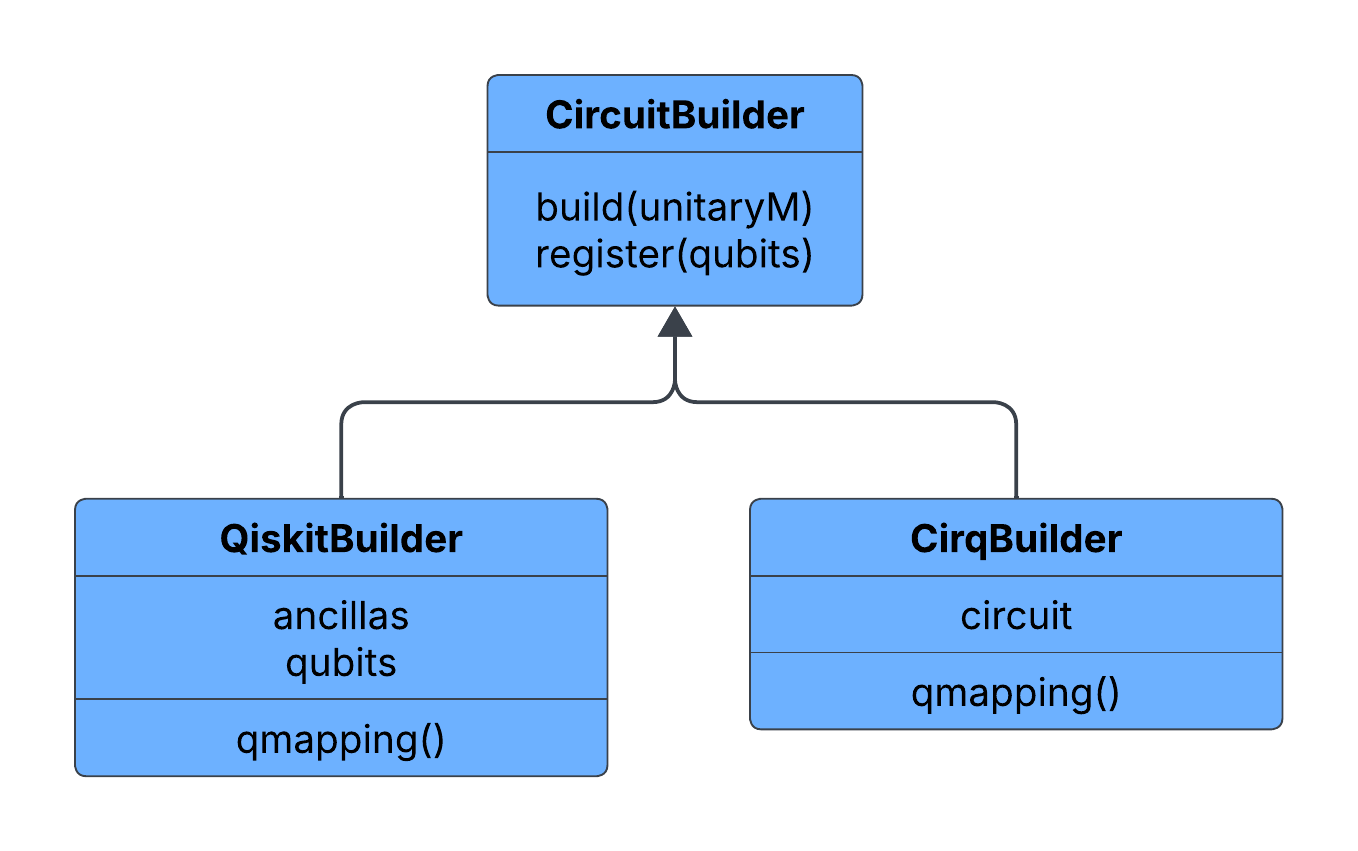
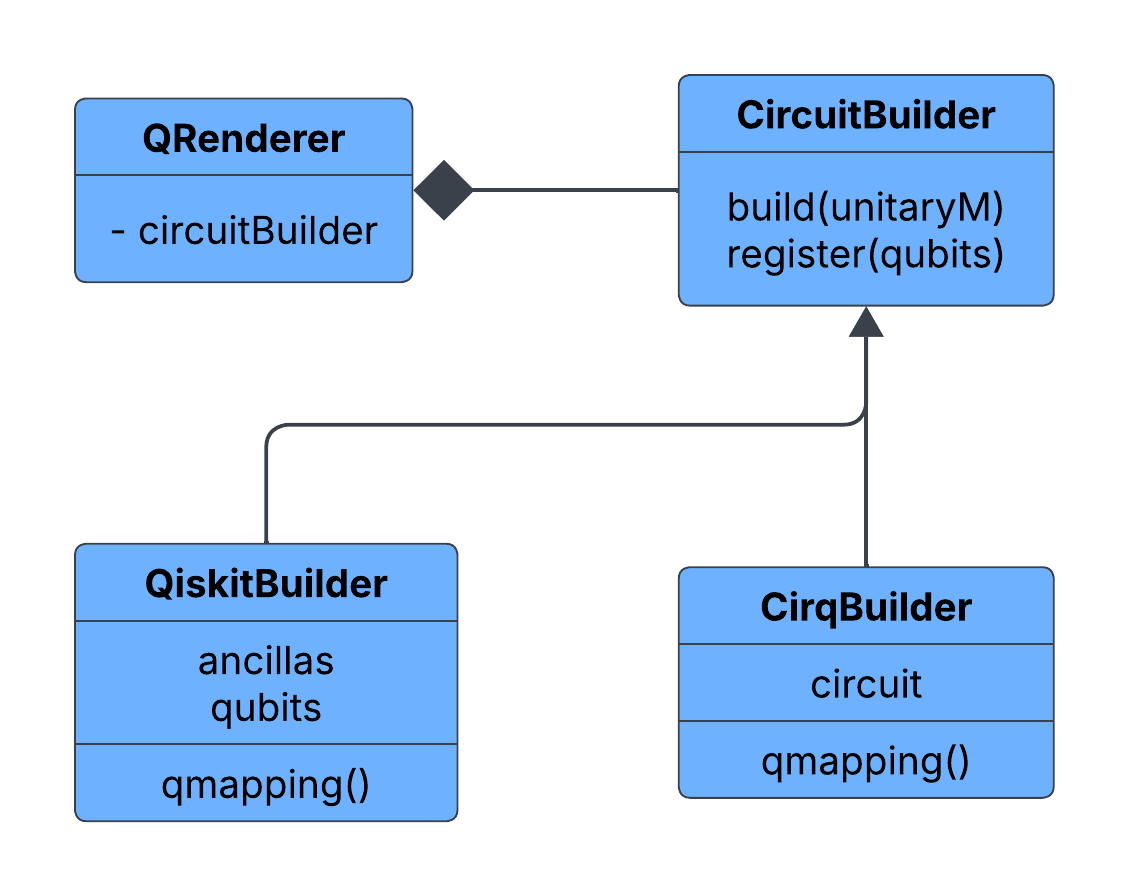
Finish writing sections Method and high-level design.

diff --git a/quantum-compiler/article/qompiler.tex b/quantum-compiler/article/qompiler.tex
@@ -56,15 +56,17 @@ T\kern-.1667em\lower.7ex\hbox{E}\kern-.125emX}}
 
     \section{Introduction}\label{sec:introduction}
 
-    Quantum simulation offers significant advantages for applications in chemistry, pharmaceuticals, and biological processes.
+    Quantum simulation offer significant advantages for applications in chemistry, pharmaceuticals, and biological processes.
     Despite this potential, developing quantum software remains highly challenging, requiring expertise in physics, mathematics, and software engineering.
     This steep learning curve limits access for many users and professionals who could benefit from quantum computing.
     Furthermore, existing quantum transpilers are often platform-specific, implemented in an ad hoc manner, and provide limited control over compilation granularity.
+
 
     To address these challenges, we developed \texttt{qompiler}, a cross-platform quantum circuit synthesizer designed for traceability, verifiability, and configurable gate control.
     It decomposes Hamiltonians into circuits using a multi-stage framework, including two-level, swap, control, Euler angle decompositions, and Solovay-Kitaev approximations.
     The intermediate representation (IL) is structured as a B-Tree, enabling gate-level lineage and platform independence, and it supports major frameworks such as Qiskit, Cirq, and OpenQASM~\cite{cirq2024,qiskit2023,openqasm2,openqasm3}.
     Notably, the compiler allows fine-grained gate selection to match native hardware capabilities—for example, using Pauli gates on superconducting hardware or rotation gates on trapped-ion devices—facilitating hardware-aware optimization and broad applicability.
+
 
     Table~\ref{tab:feature-comparison} compares \texttt{qompiler} with existing quantum compilers, transpilers, and synthesizers according to the following criteria:
     \begin{itemize}
@@ -95,6 +97,7 @@ T\kern-.1667em\lower.7ex\hbox{E}\kern-.125emX}}
 
 
     \section{Method}\label{sec:method}
+
     The proposed compiler, \texttt{qompiler}, decomposes user-defined Hamiltonians into executable quantum circuits through a multi-stage decomposition framework.
     As a recap, given an input Hamiltonian $\hat{H}$, the quantum dynamics are fully prescribed by the time-dependent evolution operator
     \begin{equation}
@@ -115,28 +118,31 @@ T\kern-.1667em\lower.7ex\hbox{E}\kern-.125emX}}
     \end{equation}
     where $\hat{A}_{0}$ is the initial operator for an arbitrary observable.
     Whereas, the state kets remain constants.
-
     For computational purposes, we express the evolution operator as a unitary matrix \( U \) on a suitably chosen basis,
     which serves as the starting point for this paper.
-    We divide the overall workflow into two stages: compilation and interpretation.
-    During compilation, \texttt{Qompiler} takes \( U \) as input and decomposes it into gate-level circuits expressed
-    using an intermediate language (IL) designed by us.
 
-    The compilation process comprises several key steps, including two-level decomposition (2L), swap gate decomposition (CX),
-    control gate decomposition (CTRL), Euler rotation decomposition (EA), and the Solovay-Kitaev approximation (SK)~\cite{nielsen2010q,dawson2005sk}.
-    All decomposition processes are configurable, offering control over compilation granularity.
+    \subsection{High-Level Design}\label{subsec:design}
 
-    Next are the optimization passes.
-    These built-in processes reduce and consolidate redundant gates, overly fragmented circuits,
-    and other non-optimal components of the code.
-    Think of the decomposition processes as `push`, whereas these processes act as `pull`.
-    Through the optimization processes, we `pull back` some of the decomposition actions.
-    By combining the actions in both the `push` and `pull` processes, we aim to find an optimal compilation result
-    that respects the native constraints of the targeted quantum hardware.
+    \begin{figure}[tbhp]
+        \centering
+        \includegraphics[width=.8\linewidth]{architecture}
+        \caption{The high-level design of the `\texttt{Qompiler}' system.
+        Rectangles (blue) represent major class constructs.
+        Rectangles with a jagged bottom (purple) represent file input/output (file I/O).
+        Parallelograms (pink) represent in-memory data structure.
+        The computer icon represents user input.
+        }
+        \label{fig:impl}
+    \end{figure}
 
-    The final compiled code (quantum circuit) is represented in a B-Tree data structure,
-    which encodes gate-level lineage via parent-child relationships among tree nodes, thereby providing robust traceability
-    and verifiability, which will be discussed in Section~\ref{sec:traceability-and-verifiability}.
+
+    Here we provide an overview of the high-level design.
+    The system is organized into the following functional parts:
+    ``Compiler configuration'', ``Matrix decomposition'', ``Optimization'', ``Circuit rendering''.
+    This is illustrated in Figure~\ref{fig:impl}.
+    We will briefly describe each of these steps here, while more detailed discussions of selected components
+    are presented in subsequent sections.
+
 
     A key feature of \texttt{qompiler} is its configurable compilation granularity,
     allowing users to tailor the resulting circuit to the gate sets best suited for the target hardware.
@@ -148,33 +154,92 @@ T\kern-.1667em\lower.7ex\hbox{E}\kern-.125emX}}
     This hardware-aware configurability enables efficient, optimized circuit generation across diverse quantum backends
     while maintaining traceability and cross-platform compatibility.
 
+
+    The compiler configuration is the sole responsibility of \texttt{ConfigManager}.
+    \texttt{ConfigManager} can read configuration inputs from several sources:
+    \begin{itemize}
+        \item Default settings JSON file,
+        \item Custom overrides JSON file,
+        \item Command line settings.
+    \end{itemize}
+    Rich controls of the compilation processes are made possible through the sophisticated configuration system,
+    offering control over almost all aspects of the compilation process,
+    including but not limited to the granularity control, target platform, error tolerances,
+    quantum device space allocation, optimization level, etc.
+
+    Once all configuration sources are loaded and combined,
+    the final settings are used to create a singleton instance of \texttt{QFactory},
+    which is a creational design pattern, the factory pattern ~\cite{Gamma1994DesignPattern}.
+    From the \texttt{QFactory}, other compilation constructs are created as
+    needed---\texttt{Qompiler}, \texttt{QRenderer}, \texttt{QDevice}, \texttt{QConfig}, \texttt{Optimizers}, etc.
+
+
+    Now that all the needed constructs are in place, \texttt{Qompiler} can start to take orders---\( U\left(t\right) \) as input and
+    compile it into gate-level quantum code.
+    The compilation process comprises several key steps, including two-level decomposition (2L), swap gate decomposition (CX),
+    control gate decomposition (CTRL), Euler rotation decomposition (EA),
+    and the Solovay-Kitaev approximation (SK)~\cite{nielsen2010q,dawson2005sk}.
+    This is done recursively by the \texttt{Qompiler} class.
+    We will spend the entire Section~\ref{sec:decomp} to discuss this as well as future development.
+
+
+    The final compiled code (quantum circuit) is represented in a B-Tree data structure,
+    an intermediate language (IL) designed specifically for the task.
+    IL encodes gate-level lineage via parent-child relationships among tree nodes, thereby providing robust traceability
+    and verifiability, which will be discussed in Section~\ref{sec:traceability-and-verifiability}.
+
+
+    Nearing the end of the compilation process are the optimization passes
+    where multiple passes may be taken to simplify the circuit output,
+    including gate annihilation, reduction, and consolidation.
+    Think of the decomposition processes as `push`, whereas the optimization processes as `pull`.
+    Through the optimization processes, we `pull back` some of the decomposition actions.
+    By combining the actions in both the `push` and `pull` processes, we aim to find an optimal compilation result
+    that respects the native constraints of the targeted quantum hardware.
+    This will be the topic for Section~\ref{sec:optimization}.
+
+
+    Once the compilation process is finished, the end result is binary code written to disk as `.qco' files.
     Finally, the interpretation stage.
+    The circuit interpretation and rendering part is in the curation of \texttt{QRenderer} and \texttt{CircuitBuilder}.
     The compiler’s intermediate language (IL) is platform-independent and can be interpreted and rendered
     into executable circuits for specific quantum platforms.
     The IL can also be translated into other quantum software standards, such as OpenQASM, for broader compatibility~\cite{openqasm2,openqasm3}.
+    Note that the compilation is done once, but the circuit interpreting and rendering may be done any number of times,
+    for any supported platforms.
     This stage is designed to be highly adaptable and open to new platforms.
-    We have demonstrated interpretation with quantum computing platforms such as Qiskit and Cirq.
-    Support for other platforms can be added easily with minimal programming effort.
+    Currently supported quantum computing platforms include Qiskit and Cirq.
+    Support for other platforms can be added easily by writing a circuit builder extending the base class \texttt{CircuitBuilder}.
+    We will visit this in Section~\ref{sec:rendering}.
 
 
-    \section{High-Level Design}\label{sec:design}
-    In Figure~\ref{fig:impl}, we present the design of the compilation framework of \texttt{Qompiler}.
-    The main flow is ``Compiler configuration → Operator decomposition → Optimization → Circuit rendering''.
+    \section{Unitary Matrices and Controlled Gates}\label{sec:um-and-cgate}
 %    TODO
-    We employed creational pattern and all the major classes are created by
-    \texttt{QFactory}---\texttt{Qompiler}, \texttt{QRenderer}, \texttt{QDevice}, \texttt{QConfig}, \texttt{Optimizers}, etc.
+    Representation of unitary matrices and controlled gates are the key of quantum compiler design.
+    \texttt{CtrlGate}, \texttt{QRenderer}, \texttt{QDevice}, \texttt{QConfig}, \texttt{Optimizers}, etc.
 
-    \begin{figure}[tbhp]
-        \centering
-        \includegraphics[width=.8\linewidth]{architecture}
-        \caption{The design diagram of `\texttt{Qompiler}'.
-        Rectangles (blue) represent major class constructs.
-        Rectangles with a jagged bottom (purple) represent file input/output (I/O).
-        Parallelograms (pink) represent data.
-        The computer icon represents user inputs.
-        }
-        \label{fig:impl}
-    \end{figure}
+    \texttt{CtrlGate} has a couple of important methods such as
+    \begin{itemize}
+        \item     convert(UnitaryM)
+        \item     inflate()
+        \item     matmul(CtrlGate)
+        \item     expand(qspace)
+    \end{itemize}
+
+
+    \section{Decompositions}\label{sec:decomp}
+%    TODO
+    In this section, we summarize some aspects of the decomposition methods used by \texttt{qompiler}.
+    \begin{itemize}
+        \item \texttt{cnot\_decompose}
+        \item \texttt{ctrl\_decompose}
+        \item \texttt{euler\_decompose}
+        \item \texttt{mat2l\_decompose}
+        \item \texttt{std\_decompose}
+    \end{itemize}
+
+    These decomposition methods are orchestrated by the class \texttt{Qompiler}.
+    \texttt{QDevice} is used for allocating qubits and ancilla qubits.
 
     \begin{figure}[tbhp]
         \centering
@@ -219,58 +284,6 @@ T\kern-.1667em\lower.7ex\hbox{E}\kern-.125emX}}
     If so, the output consists of principal rotational operators.
     If not, the decomposition continues into either Clifford+T gate sets or user-defined universal gate sets.
     For ease of reference, the terminology used in this paper is summarized in Table~\ref{tab:terminology}.
-
-
-
-    \begin{figure}[tbhp]
-        \centering
-        \includegraphics[width=0.6\linewidth]{btree}
-        \caption{The end result as a B-Tree data structure.
-        The B-Tree is layered, starting from the input unitary matrix at the root,
-            followed by intermediate layers two-level unitary, single-qubit, control-pruned, and finally universal gates
-            (including Clifford+T gates) as the leaves.
-        }
-        \label{fig:btree}
-    \end{figure}
-
-    The resulting IL is represented as a B-Tree data structure and stored in \textit{.qco} files.
-    In the B-Tree structure, parent nodes generally correspond to coarser-grained operators,
-    while child nodes represent the decomposed operators whose product recovers the parent node, e.g.,
-    \begin{equation}
-        \label{eq:parent-child-relation}
-        \hat{P} = \prod_{i=1}^{n} \hat{C}_{i}.
-    \end{equation}
-    In general, the nodes of a B-Tree are layered hierarchically.
-    See Fig.~\ref{fig:btree} for details.
-
-
-    \section{Unitary Matrices and Controlled Gates}\label{sec:um-and-cgate}
-%    TODO
-    Representation of unitary matrices and controlled gates are the key of quantum compiler design.
-    \texttt{CtrlGate}, \texttt{QRenderer}, \texttt{QDevice}, \texttt{QConfig}, \texttt{Optimizers}, etc.
-
-    \texttt{CtrlGate} has a couple of important methods such as
-    \begin{itemize}
-        \item     convert(UnitaryM)
-        \item     inflate()
-        \item     matmul(CtrlGate)
-        \item     expand(qspace)
-    \end{itemize}
-
-
-    \section{Decompositions}\label{sec:decomp}
-%    TODO
-    In this section, we summarize some aspects of the decomposition methods used by \texttt{qompiler}.
-    \begin{itemize}
-        \item \texttt{cnot\_decompose}
-        \item \texttt{ctrl\_decompose}
-        \item \texttt{euler\_decompose}
-        \item \texttt{mat2l\_decompose}
-        \item \texttt{std\_decompose}
-    \end{itemize}
-
-    These decomposition methods are orchestrated by the class \texttt{Qompiler}.
-    \texttt{QDevice} is used for allocating qubits and ancilla qubits.
 
 
     \section{Solovay and Kitaev Approximation}\label{sec:sk-approx}
@@ -319,6 +332,28 @@ T\kern-.1667em\lower.7ex\hbox{E}\kern-.125emX}}
     We organize the compiled code as a B-Tree data structure in the intermediate language.
 %    TODO
     To that end, we created \texttt{ByteCode} to represent the tree node.
+
+    \begin{figure}[tbhp]
+        \centering
+        \includegraphics[width=0.6\linewidth]{btree}
+        \caption{The end result as a B-Tree data structure.
+        The B-Tree is layered, starting from the input unitary matrix at the root,
+            followed by intermediate layers two-level unitary, single-qubit, control-pruned, and finally universal gates
+            (including Clifford+T gates) as the leaves.
+        }
+        \label{fig:btree}
+    \end{figure}
+
+    The resulting IL is represented as a B-Tree data structure and stored in \textit{.qco} files.
+    In the B-Tree structure, parent nodes generally correspond to coarser-grained operators,
+    while child nodes represent the decomposed operators whose product recovers the parent node, e.g.,
+    \begin{equation}
+        \label{eq:parent-child-relation}
+        \hat{P} = \prod_{i=1}^{n} \hat{C}_{i}.
+    \end{equation}
+    In general, the nodes of a B-Tree are layered hierarchically.
+    See Fig.~\ref{fig:btree} for details.
+
     Traceability is encoded in the parent-child relationships.
     Each gate in the final program can be traced back to the specific operation that produced it.
     The built-in optimizers applied in later stages of compilation also record tracing information for their operations
